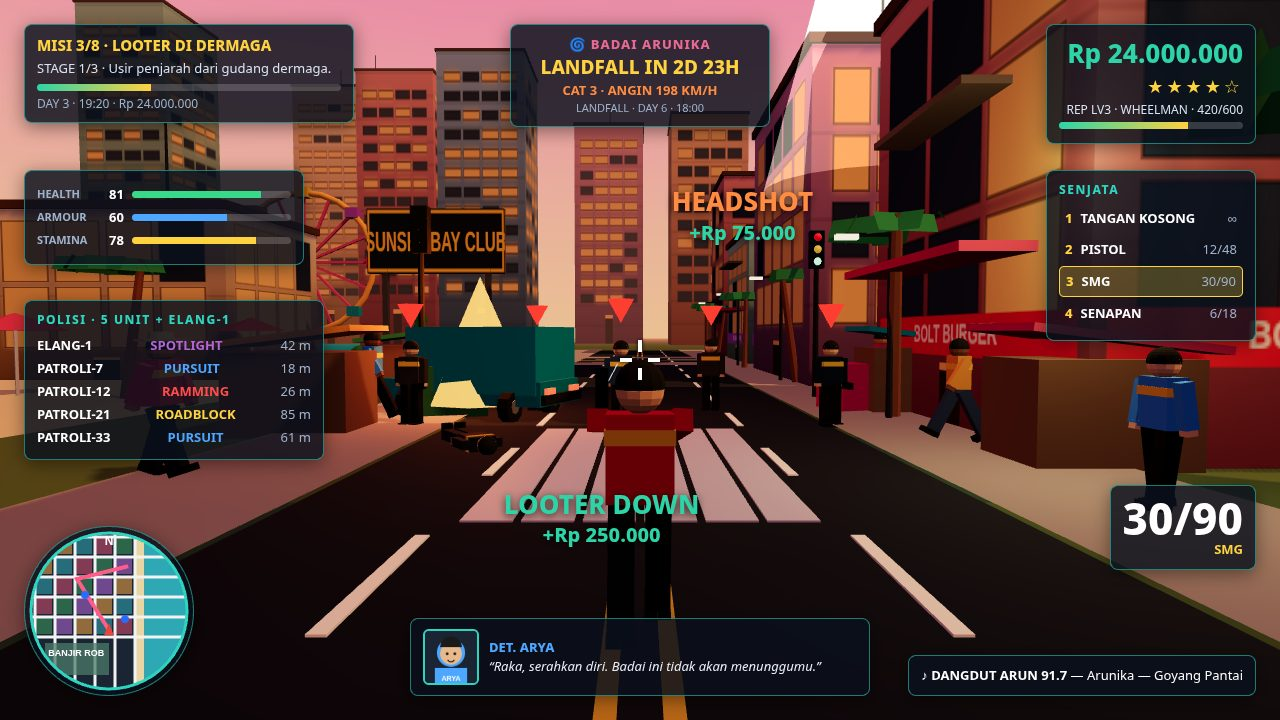
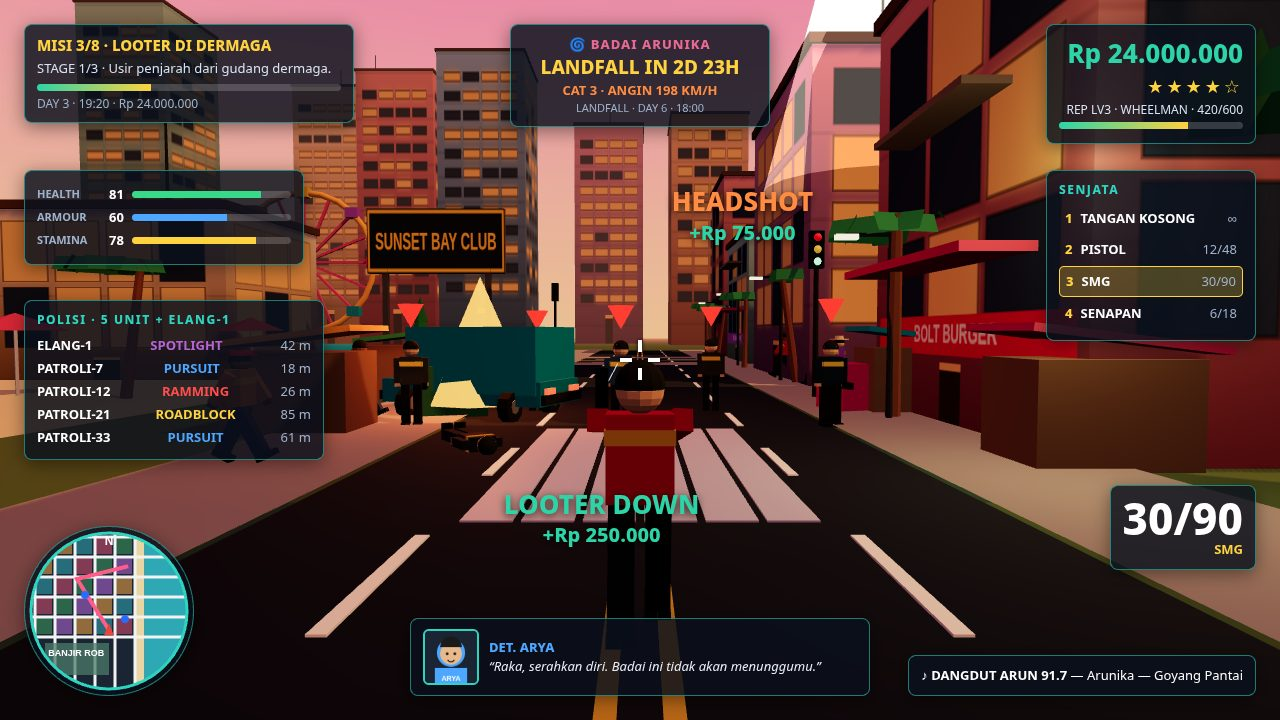
GTA6-01 v4 fixes — mission coherence + map labels + billboard/sign readability
- state.js: mission 5 EVAKUASI BANJIR ROB DONE, mission 6 MATA-MATA
  PELABUHAN ACTIVE (matches 5/8 SELESAI header + career stats)
- hud.js drawMap: district labels drawn LAST with dark halo plates,
  so the GPS route can never obscure BANDARA ARUN / KAMPUNG NELAYAN
- world.js signTexture: auto-fit font so SUNSET BAY CLUB fits its board
- world.js makeBuilding: end faces get sign-free facade (no more
  clipped BOLT BURGER fragment at the frame edge in shot 2)
- main.js: traffic light tl1 z 18 -> 44 (its housing hid 'ET' in the
  SUNSET BAY CLUB billboard); west-side combat pedestrians spawn
  clear of the BOLT BURGER shop front (z 11.5-20.5)
- screenshots 1-4 re-rendered (CDP/SwiftShader, fresh profile per shot),
  all 1280x720, <=256 KiB; dossier 2-run byte-identical

diff --git a/game/src/world.js b/game/src/world.js
@@ -73,8 +73,17 @@ export function signTexture(text, bg = '#1A2433', fg = '#FFD23F', w = 512, h = 1
   return canvasTexture(w, h, (g) => {
     g.fillStyle = bg; g.fillRect(0, 0, w, h);
     g.strokeStyle = fg; g.lineWidth = 6; g.strokeRect(6, 6, w - 12, h - 12);
-    g.fillStyle = fg; g.font = 'bold 56px sans-serif'; g.textAlign = 'center';
-    g.fillText(text, w / 2, h / 2 + 20);
+    // auto-fit: shrink the font until the whole text fits inside the
+    // board with a margin, so long names (SUNSET BAY CLUB) never clip
+    // at the left/right edges of the board
+    let size = 56;
+    g.font = `bold ${size}px sans-serif`;
+    while (size > 20 && g.measureText(text).width > w - 44) {
+      size -= 2;
+      g.font = `bold ${size}px sans-serif`;
+    }
+    g.fillStyle = fg; g.textAlign = 'center';
+    g.fillText(text, w / 2, h / 2 + size * 0.36);
   });
 }
 
@@ -102,8 +111,19 @@ export function makeBuilding(x, z, w, h, d, seed, shop = false) {
     sign: sign ? sign[0] : null, signColor: sign ? sign[1] : null,
     litRatio: 0.45 + (seed % 3) * 0.15,
   });
+  // End faces (±X, the narrow sides seen along the street) get the same
+  // facade WITHOUT the shop sign: a sign stretched across an end face
+  // reads as a clipped fragment at the frame edge (BOLT BURGER in shot 2).
+  // Material order for BoxGeometry: +x, -x, +y, -y, +z, -z.
+  const sideTex = facadeTexture({
+    base: c.base, top: c.top, floors, cols: Math.max(3, Math.round(d / 2.6)),
+    sign: null, litRatio: 0.45 + (seed % 3) * 0.15,
+  });
+  const frontMat = new THREE.MeshStandardMaterial({ map: tex, roughness: 0.9, flatShading: true });
+  const sideMat = new THREE.MeshStandardMaterial({ map: sideTex, roughness: 0.9, flatShading: true });
+  const capMat = new THREE.MeshStandardMaterial({ color: new THREE.Color(c.base), roughness: 0.9, flatShading: true });
   const body = new THREE.Mesh(new THREE.BoxGeometry(w, h, d),
-    new THREE.MeshStandardMaterial({ map: tex, roughness: 0.9, flatShading: true }));
+    [sideMat, sideMat, capMat, capMat, frontMat, frontMat]);
   body.position.y = h / 2; body.castShadow = true; body.receiveShadow = true;
   g.add(body);
   // thin roof slab + rooftop detail (AC unit / water tank / antenna)

diff --git a/game/src/main.js b/game/src/main.js
@@ -84,7 +84,7 @@ function buildCity() {
     const l = makeStreetLamp(); l.position.set(-5.6, 0, z); scene.add(l);
     if (z % 24 === 0) { const l2 = makeStreetLamp(); l2.position.set(5.6, 0, z + 6); l2.rotation.y = Math.PI; scene.add(l2); }
   }
-  const tl1 = makeTrafficLight(); tl1.position.set(5.2, 0, 18); scene.add(tl1);
+  const tl1 = makeTrafficLight(); tl1.position.set(5.2, 0, 44); scene.add(tl1); // z=44, not 18: at z=18 its housing sat exactly in front of the SUNSET BAY CLUB billboard and hid "ET"
   const tl2 = makeTrafficLight(); tl2.position.set(-5.2, 0, 22); tl2.rotation.y = Math.PI; scene.add(tl2);
   // billboards
   const bb1 = makeBillboard('SUNSET BAY CLUB', 9.5, 34, Math.PI); scene.add(bb1);
@@ -237,11 +237,14 @@ function stageCombat() {
   const heli = makeHelicopter(); heli.position.set(-8, 20, 24); heli.rotation.y = -0.5; heli.scale.setScalar(0.8); scene.add(heli);
   scene.add(makeLightPool(-8, 24, 3.4, 4.2));
   animated.push({ update: (dt) => { heli.userData.rotor.rotation.y += dt * 18; } });
-  // pedestrians ON THE SIDEWALKS (x = ±5.8), never in the middle of the road
+  // pedestrians ON THE SIDEWALKS (x = ±5.8), never in the middle of the road.
+  // West sidewalk (side -1) spawns clear of the BOLT BURGER shop front
+  // (facade z 11.5–20.5): a pedestrian standing there hides the sign text.
   for (let i = 0; i < 6; i++) {
     const p = makePedestrian();
     const side = i % 2 === 0 ? -1 : 1;
-    p.position.set(side * (5.6 + Math.random() * 0.9), 0.06, 8 + i * 2.6 + Math.random() * 1.5);
+    const pz = side < 0 ? 22 + i * 1.6 + Math.random() * 1.5 : 8 + i * 2.6 + Math.random() * 1.5;
+    p.position.set(side * (5.6 + Math.random() * 0.9), 0.06, pz);
     p.rotation.y = side > 0 ? -Math.PI / 2 : Math.PI / 2;
     scene.add(p); peds.push(p);
     animated.push({ update: (dt) => animateWalk(p, dt, true) });

diff --git a/game/src/hud.js b/game/src/hud.js
@@ -175,7 +175,8 @@ export function drawMap(canvas, shot = 4) {
   for (const z of zones) {
     g.fillStyle = z.c; g.fillRect(z.x, z.y, z.w, z.h);
     g.strokeStyle = 'rgba(45,212,191,0.7)'; g.lineWidth = 2; g.strokeRect(z.x, z.y, z.w, z.h);
-    g.fillStyle = '#FFFFFF'; g.font = 'bold 13px sans-serif'; g.fillText(z.name, z.x + 12, z.y + 28);
+    // (district names are drawn LAST, with a dark halo — see end of drawMap —
+    // so the thick GPS route can never cross over the label text)
   }
   // street grid
   g.strokeStyle = 'rgba(242,242,242,0.85)'; g.lineWidth = 3;
@@ -229,6 +230,18 @@ export function drawMap(canvas, shot = 4) {
   // player marker
   g.fillStyle = '#E8443A'; g.beginPath(); g.arc(140, 430, 8, 0, Math.PI * 2); g.fill();
   g.strokeStyle = '#FFFFFF'; g.lineWidth = 2; g.stroke();
+  // district names LAST, on top of everything (route, flood boxes, pins):
+  // each label gets a dark halo plate so it stays fully readable even
+  // where the thick pink GPS route passes underneath it (BANDARA ARUN,
+  // KAMPUNG NELAYAN).
+  g.font = 'bold 13px sans-serif'; g.textAlign = 'left';
+  for (const z of zones) {
+    const tw = g.measureText(z.name).width;
+    g.fillStyle = 'rgba(10,16,27,0.88)';
+    g.fillRect(z.x + 6, z.y + 13, tw + 12, 21);
+    g.fillStyle = '#FFFFFF';
+    g.fillText(z.name, z.x + 12, z.y + 28);
+  }
   return zones;
 }
 

diff --git a/game/src/state.js b/game/src/state.js
@@ -25,8 +25,8 @@ export const MISSIONS = [
   { n: 2, name: 'KABUR DARI PELABUHAN', chapter: 'Ch.2', status: 'DONE', reward: 3200000, desc: 'Lepas dari razia pelabuhan sebelum fajar.' },
   { n: 3, name: 'LOOTER DI DERMAGA', chapter: 'Ch.3', status: 'DONE', reward: 4800000, desc: 'Usir penjarah dari gudang dermaga.' },
   { n: 4, name: 'BALAPAN LIAR: SUNSET SPRINT', chapter: 'Ch.4', status: 'DONE', reward: 6500000, desc: 'Menang balapan jalanan di boulevard pantai.' },
-  { n: 5, name: 'EVAKUASI BANJIR ROB', chapter: 'Ch.5', status: 'ACTIVE', reward: 8000000, desc: 'Evakuasi 12 warga Kampung Nelayan sebelum air naik.' },
-  { n: 6, name: 'MATA-MATA PELABUHAN', chapter: 'Ch.6', status: 'LOCKED', reward: 9500000, desc: 'Foto dokumen kargo di kantor pelabuhan.' },
+  { n: 5, name: 'EVAKUASI BANJIR ROB', chapter: 'Ch.5', status: 'DONE', reward: 8000000, desc: 'Evakuasi 12 warga Kampung Nelayan sebelum air naik.' },
+  { n: 6, name: 'MATA-MATA PELABUHAN', chapter: 'Ch.6', status: 'ACTIVE', reward: 9500000, desc: 'Foto dokumen kargo di kantor pelabuhan.' },
   { n: 7, name: 'BADAI ARUNIKA', chapter: 'Ch.7', status: 'LOCKED', reward: 12000000, desc: 'Selamatkan kru saat badai mencapai darat.' },
   { n: 8, name: 'LANDFALL', chapter: 'Ch.8', status: 'LOCKED', reward: 20000000, desc: 'Hadapi Det. Arya di tengah landfall.' },
 ];
